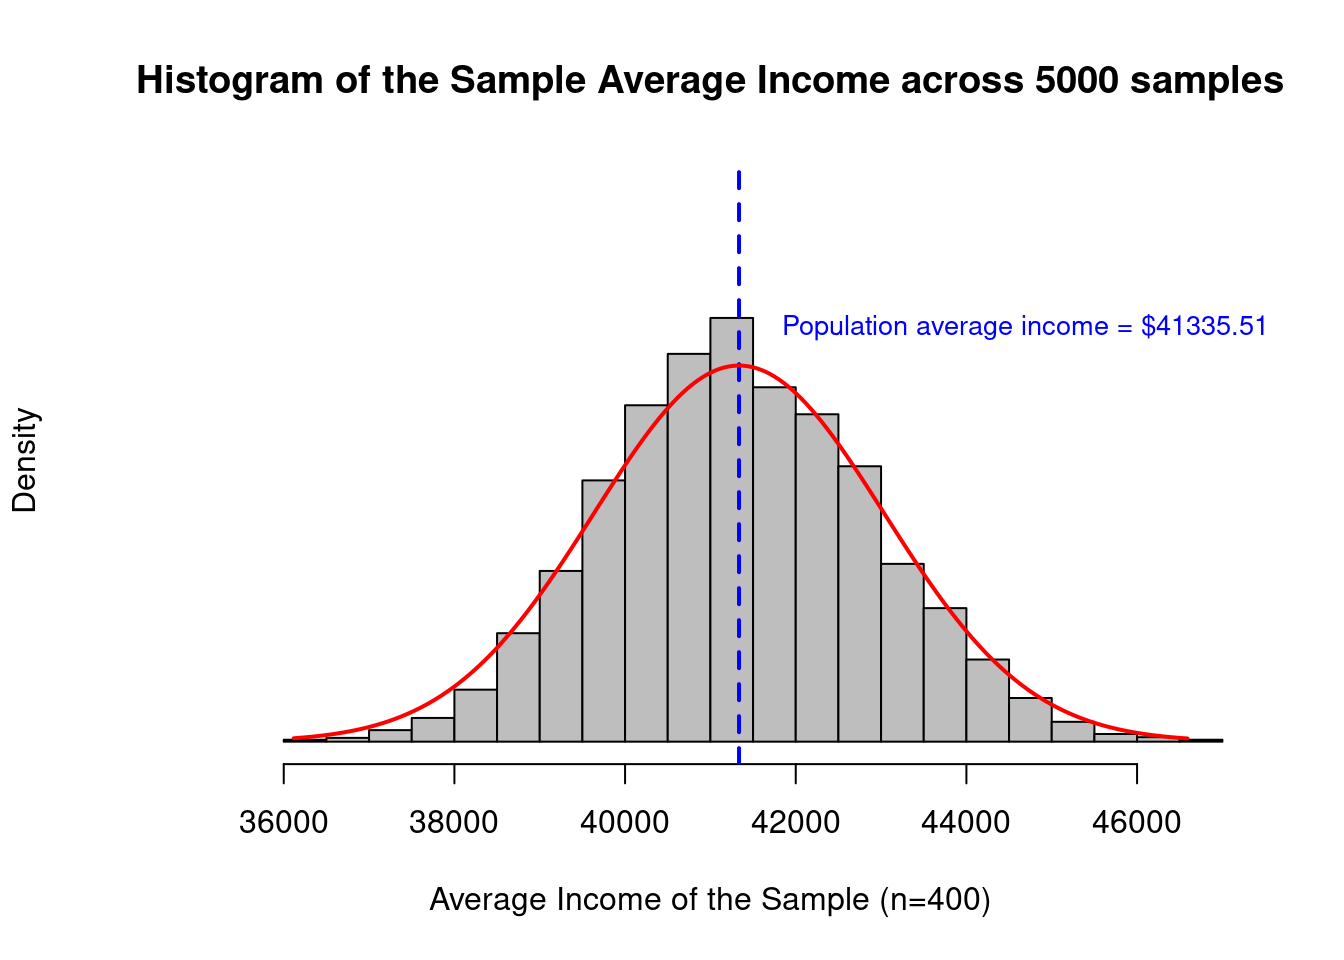
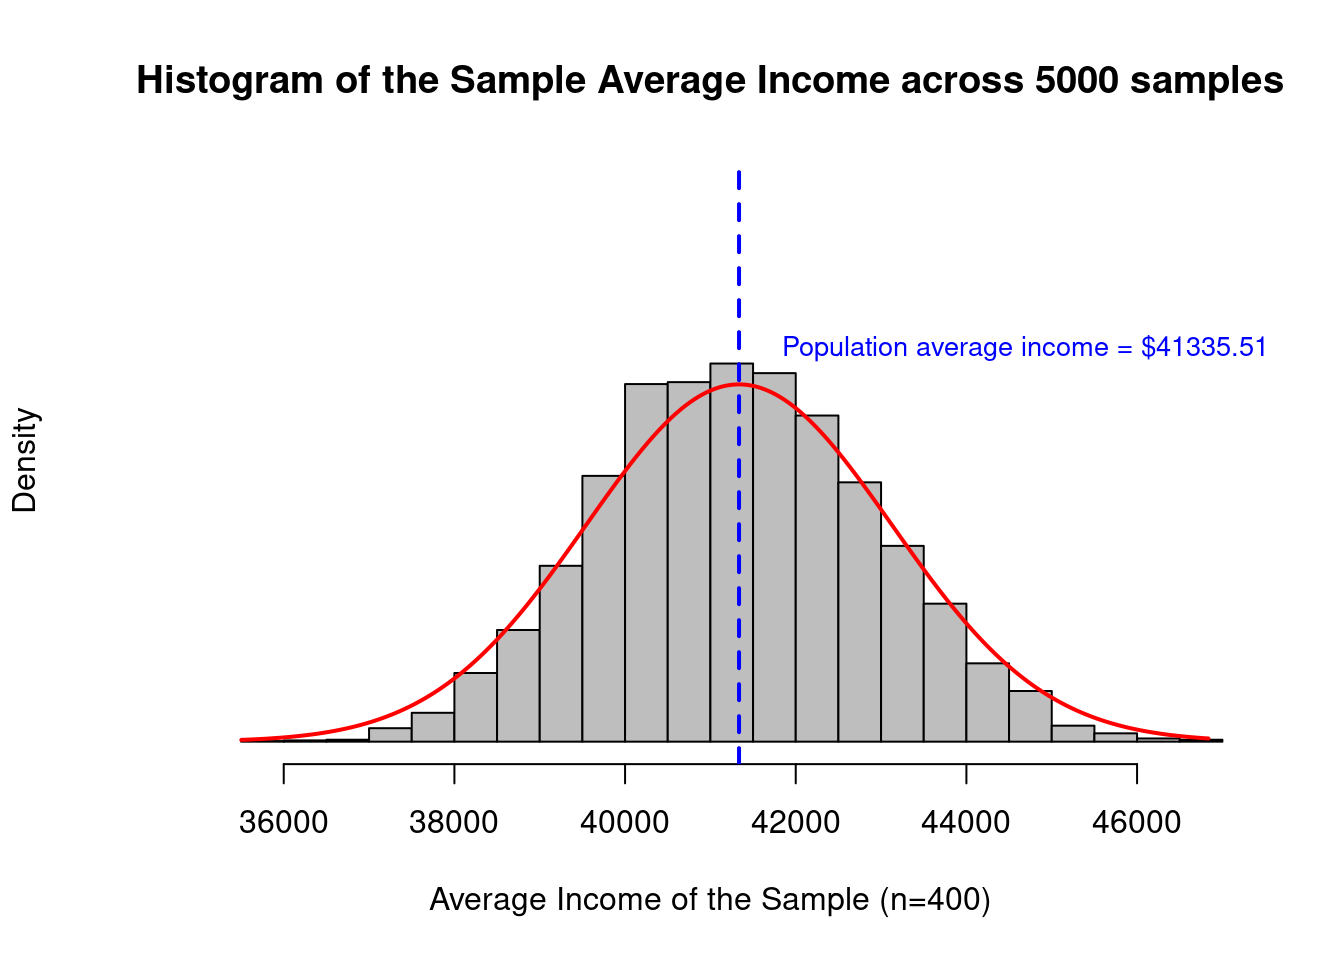
Failed?

diff --git a/docs/03b-CLT.html b/docs/03b-CLT.html
@@ -457,11 +457,11 @@ deviation of the sample.</p>
 <pre class="r"><code># Calculate the sample mean of Income
 sample.avg &lt;- mean(study.data$INCOME)
 sample.avg</code></pre>
-<pre><code>&gt; [1] 42660.1</code></pre>
+<pre><code>&gt; [1] 42130.48</code></pre>
 <pre class="r"><code># Calculate the sample sd of Income
 sample.sd &lt;- sd(study.data$INCOME)
 sample.sd</code></pre>
-<pre><code>&gt; [1] 32652.28</code></pre>
+<pre><code>&gt; [1] 31987.33</code></pre>
 <p>If you run the last two sections of code repeatedly, you will find
 that each time a new sample is selected the sample mean is a different
 number.</p>
@@ -587,7 +587,7 @@ upperCI = sample.avg + qnorm(0.975, mean = 0, sd = 1) * se
 
 print(cbind(sample.avg, lowerCI, upperCI))</code></pre>
 <pre><code>&gt;      sample.avg  lowerCI  upperCI
-&gt; [1,]   41296.32 37959.74 44632.89</code></pre>
+&gt; [1,]   44515.73 41003.23 48028.23</code></pre>
 </div>
 <div id="interpreting-confidence-intervals" class="section level2">
 <h2>Interpreting confidence intervals</h2>
@@ -613,7 +613,7 @@ sample.reps$outBounds[ true.avg &gt; sample.reps$upperCI ] &lt;- 1
 
 # what % of study replications reported 95% CI that did not include the true population average?
 sum(sample.reps$outBounds)/m</code></pre>
-<pre><code>&gt; [1] 0.0434</code></pre>
+<pre><code>&gt; [1] 0.0482</code></pre>
 <p>I hope it is not too much of a surprise that this is really close to
 5%!</p>
 <p>Next: Elements of a Statistical Test</p>

diff --git a/docs/04a-Binomial-Test.html b/docs/04a-Binomial-Test.html
@@ -366,7 +366,7 @@ if(runif(1) &lt;= p){1}else{0}</code></pre>
 p = 1/6
 n = 20
 as.integer(runif(n) &lt;= p)</code></pre>
-<pre><code>&gt;  [1] 1 0 1 0 0 0 0 0 0 0 0 0 0 0 0 0 0 0 0 0</code></pre>
+<pre><code>&gt;  [1] 0 0 0 0 0 0 0 0 0 0 0 0 0 0 0 1 0 0 0 0</code></pre>
 </div>
 </div>
 <div id="binomial-distribution-functions" class="section level2">
@@ -424,9 +424,10 @@ trials when the probability of success is “prob”</p>
 n = 20
 p = 1/6
 rbinom(n = trials, size = n, prob = p)</code></pre>
-<pre><code>&gt;   [1] 3 4 2 4 3 6 4 4 1 6 2 2 4 3 3 3 2 2 3 2 2 1 5 6 1 2 3 2 1 3 3 4 3 2 2 3 2
-&gt;  [38] 3 4 1 2 5 2 7 3 3 6 3 0 2 1 3 1 5 4 2 3 7 3 3 3 2 3 1 7 3 3 6 3 3 2 4 3 3
-&gt;  [75] 3 3 5 3 2 3 2 3 3 4 7 2 1 2 4 3 2 3 2 0 2 4 2 3 1 2</code></pre>
+<pre><code>&gt;   [1]  0  3  1  4  1  5  2  5  1  2  2  5  5  5  3  2  1  4  4  5  2  5  2 10  2
+&gt;  [26]  3  3  5  6  2  4  3  3  2  3  3  2  1  6  7  3  3  2  2  1  3  6  3  5  5
+&gt;  [51]  3  3  3  3  3  4  6  5  3  3  4  8  4  3  4  3  5  5  2  5  4  5  3  2  3
+&gt;  [76]  2  4  6  6  1  4  2  3  3  9  5  3  0  2  2  2  1  5  5  3  4  2  2  2  3</code></pre>
 </div>
 </div>
 <div id="binomial-test-theory" class="section level2">
